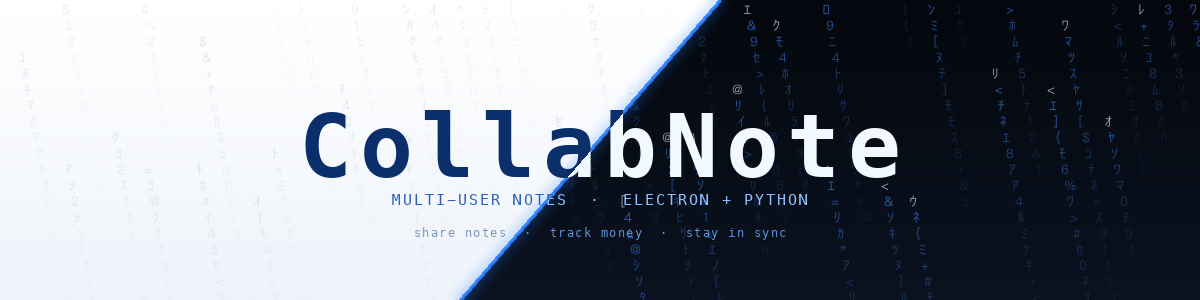
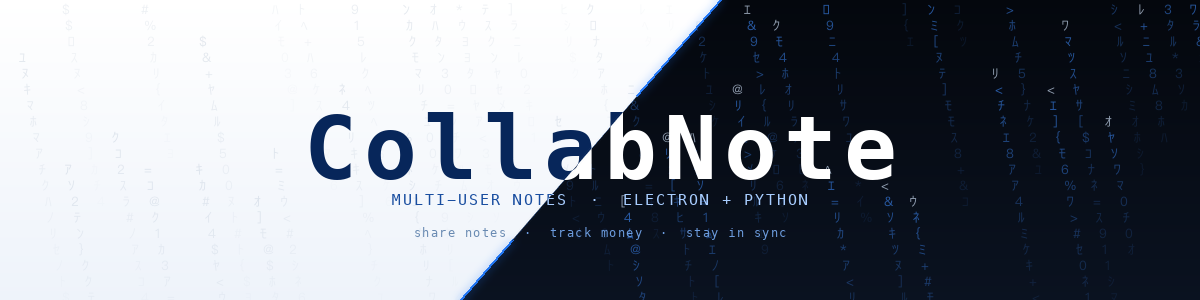
docs(readme): 横幅线条收细、标题提对比
- 分界线带外 2px，标题带内退成 1px 浅痕，不再劈字
- 斜边改用 4 倍超采样再缩放，边缘不毛
- 标题字号 88、字距 7，白区字加深到 #07265a，黑区改纯白
- 白区字符雨淡到 0.38，白得更干净

Changed region(s): [[0.2467, 0.3, 0.7708, 0.81], [0.6475, 0.66, 0.6783, 0.69]]

diff --git a/build/make-banner.py b/build/make-banner.py
@@ -40,12 +40,12 @@ DARK_BG = ((4, 7, 13), (10, 18, 32))
 WHITE_RAIN = (150, 168, 190)
 DARK_RAIN = (61, 140, 255)
 DARK_RAIN_HEAD = (214, 232, 255)
-WHITE_TITLE = (11, 47, 107)
-DARK_TITLE = (242, 248, 255)
-WHITE_SUB = (43, 98, 184)
-DARK_SUB = (143, 192, 255)
-WHITE_TAG = (120, 150, 190)
-DARK_TAG = (95, 143, 214)
+WHITE_TITLE = (7, 38, 90)
+DARK_TITLE = (255, 255, 255)
+WHITE_SUB = (26, 78, 160)
+DARK_SUB = (168, 205, 255)
+WHITE_TAG = (105, 138, 178)
+DARK_TAG = (108, 156, 222)
 SPLIT_LINE = (34, 122, 252)
 
 
@@ -86,12 +86,14 @@ def vertical_gradient(stops):
 
 
 def split_mask():
-    """分界线左侧为 255，右侧为 0。"""
-    mask = Image.new("L", (WIDTH, HEIGHT), 0)
-    ImageDraw.Draw(mask).polygon(
-        [(0, 0), (SPLIT_TOP, 0), (SPLIT_BOTTOM, HEIGHT), (0, HEIGHT)], fill=255
+    """分界线左侧为 255，右侧为 0。先按 4 倍画再缩，斜边才不锯齿。"""
+    scale = 4
+    big = Image.new("L", (WIDTH * scale, HEIGHT * scale), 0)
+    ImageDraw.Draw(big).polygon(
+        [(0, 0), (SPLIT_TOP * scale, 0), (SPLIT_BOTTOM * scale, HEIGHT * scale), (0, HEIGHT * scale)],
+        fill=255,
     )
-    return mask
+    return big.resize((WIDTH, HEIGHT), Image.LANCZOS)
 
 
 def rain_layer(rng, color, head_color, alpha_scale):
@@ -158,19 +160,30 @@ def build():
     dark_rain = clip_to(rain_layer(rng, DARK_RAIN, DARK_RAIN_HEAD, 1.0), ImageChops.invert(region))
     img.paste(dark_rain, (0, 0), dark_rain)
     rng2 = random.Random(SEED + 7)
-    white_rain = clip_to(rain_layer(rng2, WHITE_RAIN, WHITE_RAIN, 0.42), region)
+    white_rain = clip_to(rain_layer(rng2, WHITE_RAIN, WHITE_RAIN, 0.38), region)
     img.paste(white_rain, (0, 0), white_rain)
 
-    # 分界线：一条细亮线，附一点光晕
+    # 分界线：标题带内让路，几乎只留一道浅痕；带外细而利落
+    BAND_TOP, BAND_BOTTOM = 96, 240
+
+    def split_x(y):
+        return SPLIT_TOP + (SPLIT_BOTTOM - SPLIT_TOP) * (y / HEIGHT)
+
+    glow = Image.new("RGBA", (WIDTH, HEIGHT), (0, 0, 0, 0))
+    gdraw = ImageDraw.Draw(glow)
+    gdraw.line([(split_x(0), 0), (split_x(BAND_TOP), BAND_TOP)], fill=SPLIT_LINE + (70,), width=5)
+    gdraw.line([(split_x(BAND_BOTTOM), BAND_BOTTOM), (split_x(HEIGHT), HEIGHT)], fill=SPLIT_LINE + (70,), width=5)
+    img.paste(Image.new("RGB", (WIDTH, HEIGHT), SPLIT_LINE), (0, 0), glow.filter(ImageFilter.GaussianBlur(4)))
+
     line = Image.new("RGBA", (WIDTH, HEIGHT), (0, 0, 0, 0))
     ldraw = ImageDraw.Draw(line)
-    ldraw.line([(SPLIT_TOP, 0), (SPLIT_BOTTOM, HEIGHT)], fill=SPLIT_LINE + (220,), width=3)
-    glow = line.filter(ImageFilter.GaussianBlur(6))
-    img.paste(Image.new("RGB", (WIDTH, HEIGHT), SPLIT_LINE), (0, 0), glow)
+    ldraw.line([(split_x(0), 0), (split_x(BAND_TOP), BAND_TOP)], fill=SPLIT_LINE + (235,), width=2)
+    ldraw.line([(split_x(BAND_BOTTOM), BAND_BOTTOM), (split_x(HEIGHT), HEIGHT)], fill=SPLIT_LINE + (235,), width=2)
+    ldraw.line([(split_x(BAND_TOP), BAND_TOP), (split_x(BAND_BOTTOM), BAND_BOTTOM)], fill=SPLIT_LINE + (55,), width=1)
     img.paste(line, (0, 0), line)
 
     # 标题：白字压黑底、深蓝字压白底
-    title_mask = draw_text_mask(TITLE, 88, 146, 8)
+    title_mask = draw_text_mask(TITLE, 88, 148, 7)
     paint_two_tone(img, title_mask, DARK_TITLE, WHITE_TITLE, region)
 
     # 副标题与标语
